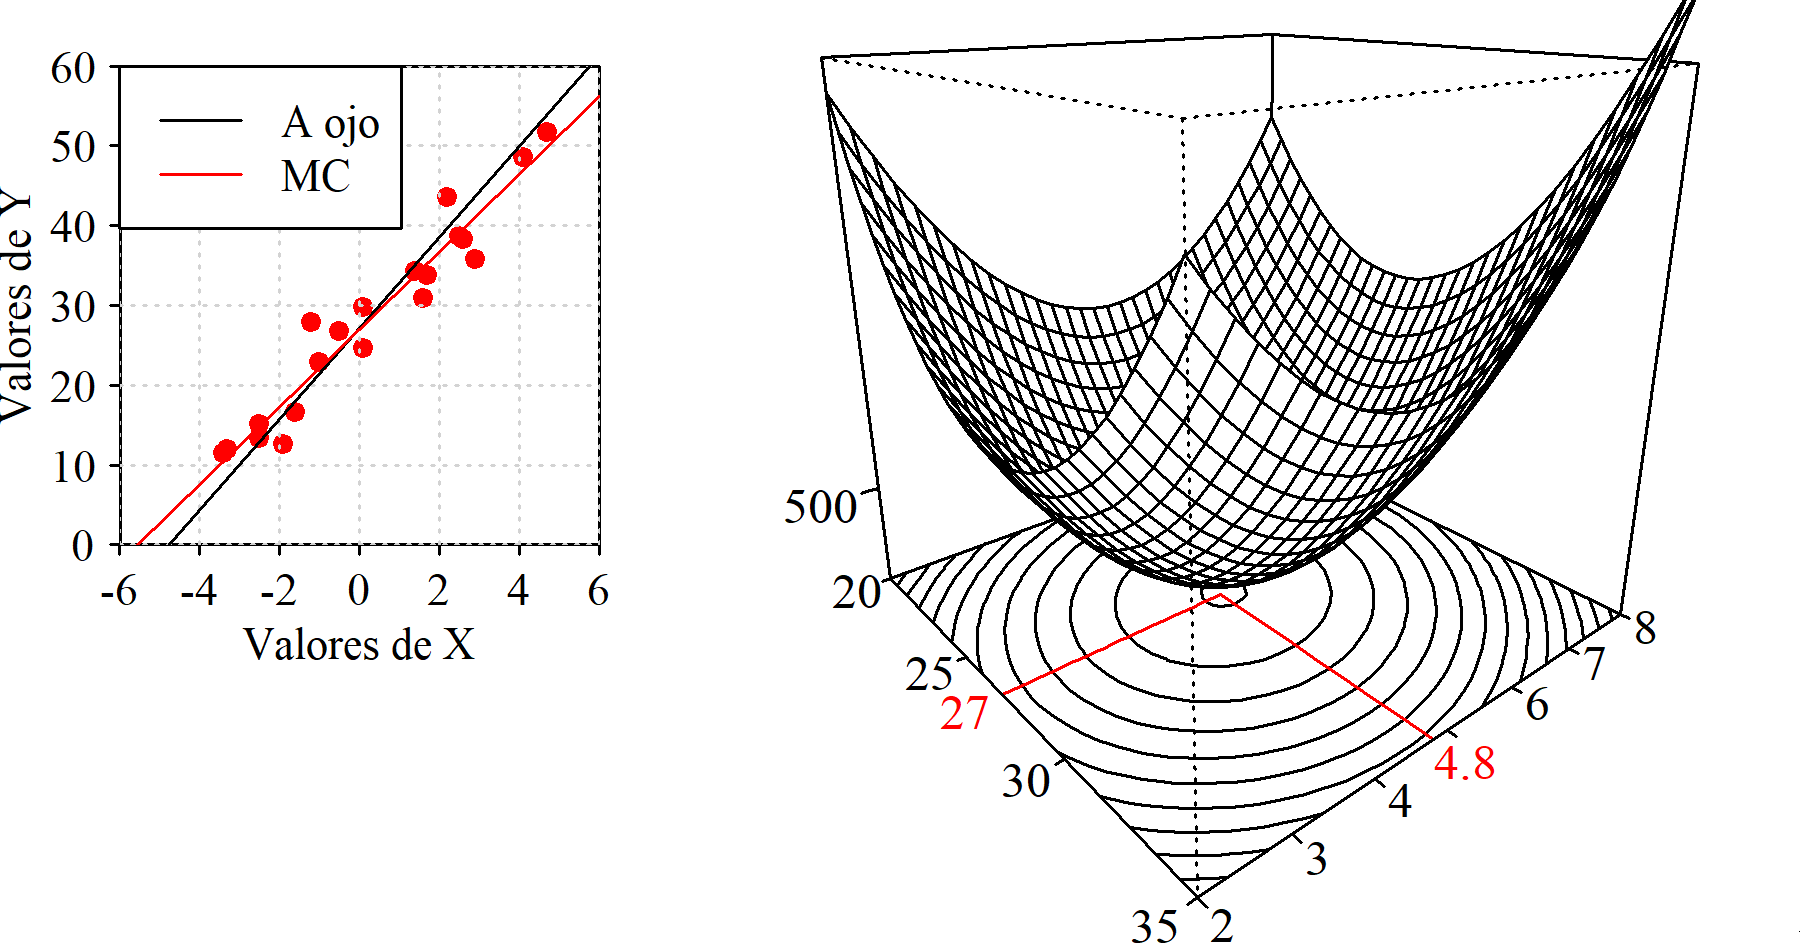
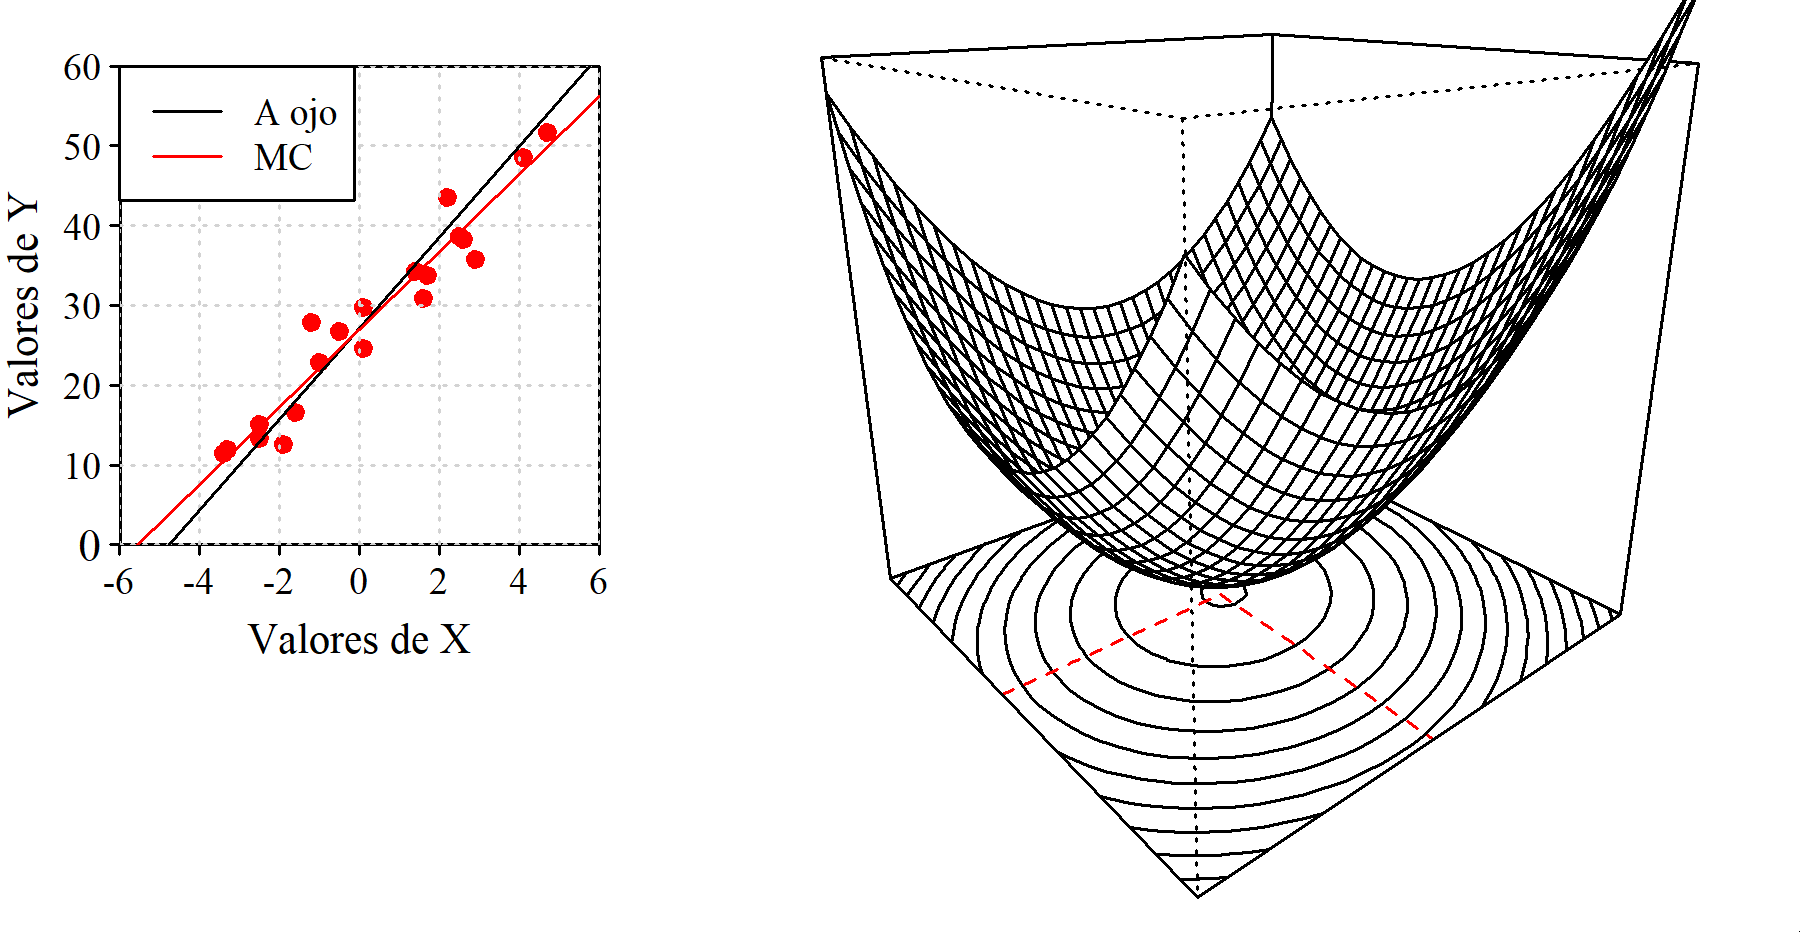
Avanzo en regresión simple

diff --git a/docs/regresionSimple.html b/docs/regresionSimple.html
@@ -283,7 +283,12 @@ div.csl-indent {
   <li><a href="#mínimos-cuadrados.-cálculo-de-los-coeficientes" id="toc-mínimos-cuadrados.-cálculo-de-los-coeficientes" class="nav-link" data-scroll-target="#mínimos-cuadrados.-cálculo-de-los-coeficientes"><span class="header-section-number">11.3</span> Mínimos cuadrados. Cálculo de los coeficientes</a>
   <ul class="collapse">
   <li><a href="#con-fuerza-bruta" id="toc-con-fuerza-bruta" class="nav-link" data-scroll-target="#con-fuerza-bruta">Con fuerza bruta</a></li>
-  <li><a href="#usando-las-expresiones-de-b_0-y-b_1-que-minimizan-la-suma-de-los-cuadrados-de-los-residuos" id="toc-usando-las-expresiones-de-b_0-y-b_1-que-minimizan-la-suma-de-los-cuadrados-de-los-residuos" class="nav-link" data-scroll-target="#usando-las-expresiones-de-b_0-y-b_1-que-minimizan-la-suma-de-los-cuadrados-de-los-residuos">Usando las expresiones de <span class="math inline">\(b_0\)</span> y <span class="math inline">\(b_1\)</span> que minimizan la suma de los cuadrados de los residuos</a></li>
+  <li><a href="#usando-las-fórmulas" id="toc-usando-las-fórmulas" class="nav-link" data-scroll-target="#usando-las-fórmulas">Usando las fórmulas</a></li>
+  </ul></li>
+  <li><a href="#calidad-del-ajuste" id="toc-calidad-del-ajuste" class="nav-link" data-scroll-target="#calidad-del-ajuste"><span class="header-section-number">11.4</span> Calidad del ajuste</a></li>
+  <li><a href="#las-cosas-se-complican-lo-que-tenemos-es-una-muestra" id="toc-las-cosas-se-complican-lo-que-tenemos-es-una-muestra" class="nav-link" data-scroll-target="#las-cosas-se-complican-lo-que-tenemos-es-una-muestra"><span class="header-section-number">11.5</span> Las cosas se complican: Lo que tenemos es una muestra</a>
+  <ul class="collapse">
+  <li><a href="#condiciones-que-deben-reunir-los-datos" id="toc-condiciones-que-deben-reunir-los-datos" class="nav-link" data-scroll-target="#condiciones-que-deben-reunir-los-datos">Condiciones que deben reunir los datos</a></li>
   </ul></li>
   </ul>
 </nav>
@@ -452,17 +457,28 @@ div.csl-indent {
 <h3 class="unnumbered anchored" data-anchor-id="con-fuerza-bruta">Con fuerza bruta</h3>
 <p>Podemos hacer una primera estimación de los coeficientes a ojo, y mediante un pequeño programa -o también usando una hoja de cálculo- realizar un barrido de la suma de los cuadrados de los residuos que se obtienen con valores de b0 y b1 en torno a los estimados, identificando el par de valores que minimiza esa suma de cuadrados.</p>
 <p>Natrualmente, es mucho más rápido y más práctico echar mano de las fórmulas para b0 y b1 o -mejor todavía- usar un paquete de software o una hoja de cálculo que los da de forma automática, pero hacerlo a mano permite entender perfectamente qué es lo que se está haciendo, y también descubrir algún detalle interesante.</p>
-<p>Vayamos a los datos de la figura <a href="#fig-sumaCero">Figura&nbsp;<span>11.1</span></a> (que son también los de <a href="#fig-Ishikawa">Figura&nbsp;<span>11.2</span></a>). Ajustando a ojo hemos obtenido unos valores de b0 = ** y b1 = **. Sería mucha casualidad que esos fueran exactamente los valores de los coeficientes que minimizan la suma de los cuadrados de los residuos, pero también es verdad que seguramente no serán valores muy distintos de estos. Podemos crear una malla de valores de b0 y b1 y para cada de valores determinar la suma de los cuadrados de los residuos que se tienen con esa recta. Eligiremos el par de valores que minimizan esa suma.</p>
-<div class="quarto-figure quarto-figure-center">
+<p>Vayamos a los datos de la figura <a href="#fig-sumaCero">Figura&nbsp;<span>11.1</span></a> (que son también los de <a href="#fig-Ishikawa">Figura&nbsp;<span>11.2</span></a>). La recta ajustada a ojo pasa por los puntos (-4,75; 0) y (5,75, 60) y es inmediato deducir que <span class="math inline">\(b_1\)</span> = 5,71 y <span class="math inline">\(b_0\)</span> = 27,14. Sería mucha casualidad que esos fueran los valores de los coeficientes que minimizan la suma de los cuadrados de los residuos, pero seguramente no andarán muy lejos. Vamos a crear una malla de valores de <span class="math inline">\(b_0\)</span> y <span class="math inline">\(b_1\)</span>. Los valores de b0 variarán de 2 a 8 con incrementos de 0,1 y para cada uno de esos, los de b0 irán de 20 a 35 también en saltos de 0,1. Cada combinación de estos dos valroes corresponde a una recta, y a cada recta le corresponde una suma de los cuadrados de los residuos. Vamos a ver cual es el par de valores bo, b1 que minimiza la suma de los cuadrados de los residuos.</p>
+<div id="fig-fuerzaBruta" class="quarto-figure quarto-figure-center anchored">
 <figure class="figure">
 <p><img src="ScriptsR/coeficientesFuerzaBruta.png" class="img-fluid figure-img" style="width:100.0%"></p>
-<figcaption class="figure-caption">Aquí descripción de la figura.</figcaption>
+<figcaption class="figure-caption">Figura&nbsp;11.5: Recta ajustada a ojo y por el método de los mínimos cuadrados, MC (izq.) y suma de los cuadrados de los residuos para cada par de valores <span class="math inline">\(b_0\)</span> y <span class="math inline">\(b_1\)</span>. En rojo, valores que la minimizan (der.).</figcaption>
 </figure>
 </div>
 </section>
-<section id="usando-las-expresiones-de-b_0-y-b_1-que-minimizan-la-suma-de-los-cuadrados-de-los-residuos" class="level3 unnumbered">
-<h3 class="unnumbered anchored" data-anchor-id="usando-las-expresiones-de-b_0-y-b_1-que-minimizan-la-suma-de-los-cuadrados-de-los-residuos">Usando las expresiones de <span class="math inline">\(b_0\)</span> y <span class="math inline">\(b_1\)</span> que minimizan la suma de los cuadrados de los residuos</h3>
+<section id="usando-las-fórmulas" class="level3 unnumbered">
+<h3 class="unnumbered anchored" data-anchor-id="usando-las-fórmulas">Usando las fórmulas</h3>
 <p>Curiosidad con el redondeo</p>
+</section>
+</section>
+<section id="calidad-del-ajuste" class="level2" data-number="11.4">
+<h2 data-number="11.4" class="anchored" data-anchor-id="calidad-del-ajuste"><span class="header-section-number">11.4</span> Calidad del ajuste</h2>
+<p>R2</p>
+</section>
+<section id="las-cosas-se-complican-lo-que-tenemos-es-una-muestra" class="level2" data-number="11.5">
+<h2 data-number="11.5" class="anchored" data-anchor-id="las-cosas-se-complican-lo-que-tenemos-es-una-muestra"><span class="header-section-number">11.5</span> Las cosas se complican: Lo que tenemos es una muestra</h2>
+<section id="condiciones-que-deben-reunir-los-datos" class="level3 unnumbered">
+<h3 class="unnumbered anchored" data-anchor-id="condiciones-que-deben-reunir-los-datos">Condiciones que deben reunir los datos</h3>
+<p>Cuanto más pedimos a los datos, más exigentes debemos ser con las condiciones que deben cumplir.</p>
 <p>See <span class="citation" data-cites="knuth84">Knuth (<a href="references.html#ref-knuth84" role="doc-biblioref">1984</a>)</span> for additional discussion of literate programming.</p>
 
 
